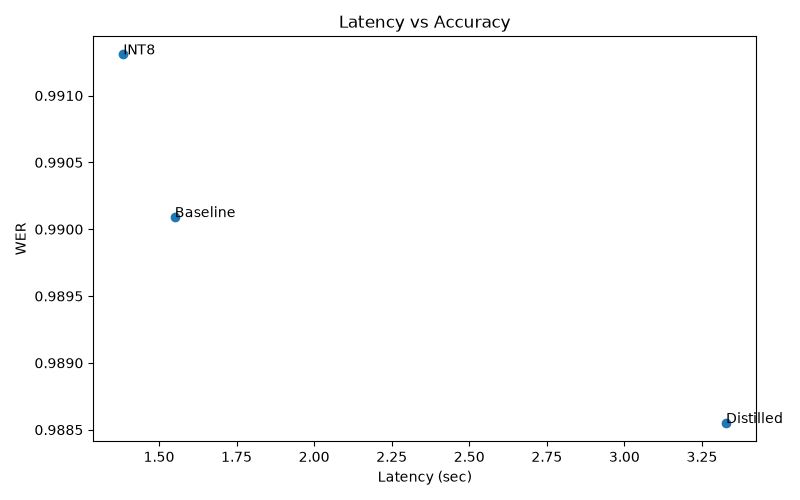
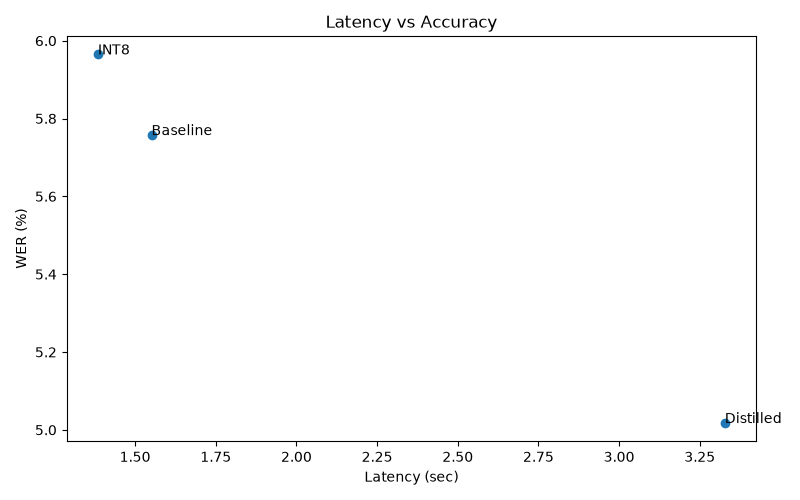
Update WER evaluation and benchmark plots

diff --git a/evaluation/plot_results.py b/evaluation/plot_results.py
@@ -4,6 +4,7 @@ import matplotlib.pyplot as plt
 df = pd.read_csv(
     "results/metrics.csv"
 )
+df["wer_percent"] = df["wer"] * 100
 
 # Latency
 
@@ -31,11 +32,11 @@ plt.figure(figsize=(8,5))
 
 plt.bar(
     df["model"],
-    df["wer"]
+    df["wer_percent"]
 )
 
 plt.title("WER Comparison")
-plt.ylabel("WER")
+plt.ylabel("WER (%)")
 
 plt.tight_layout()
 
@@ -51,7 +52,7 @@ plt.figure(figsize=(8,5))
 
 plt.scatter(
     df["avg_latency_sec"],
-    df["wer"]
+    df["wer_percent"]
 )
 
 for _, row in df.iterrows():
@@ -60,12 +61,12 @@ for _, row in df.iterrows():
         row["model"],
         (
             row["avg_latency_sec"],
-            row["wer"]
+            row["wer_percent"]
         )
     )
 
 plt.xlabel("Latency (sec)")
-plt.ylabel("WER")
+plt.ylabel("WER (%)")
 
 plt.title("Latency vs Accuracy")
 
